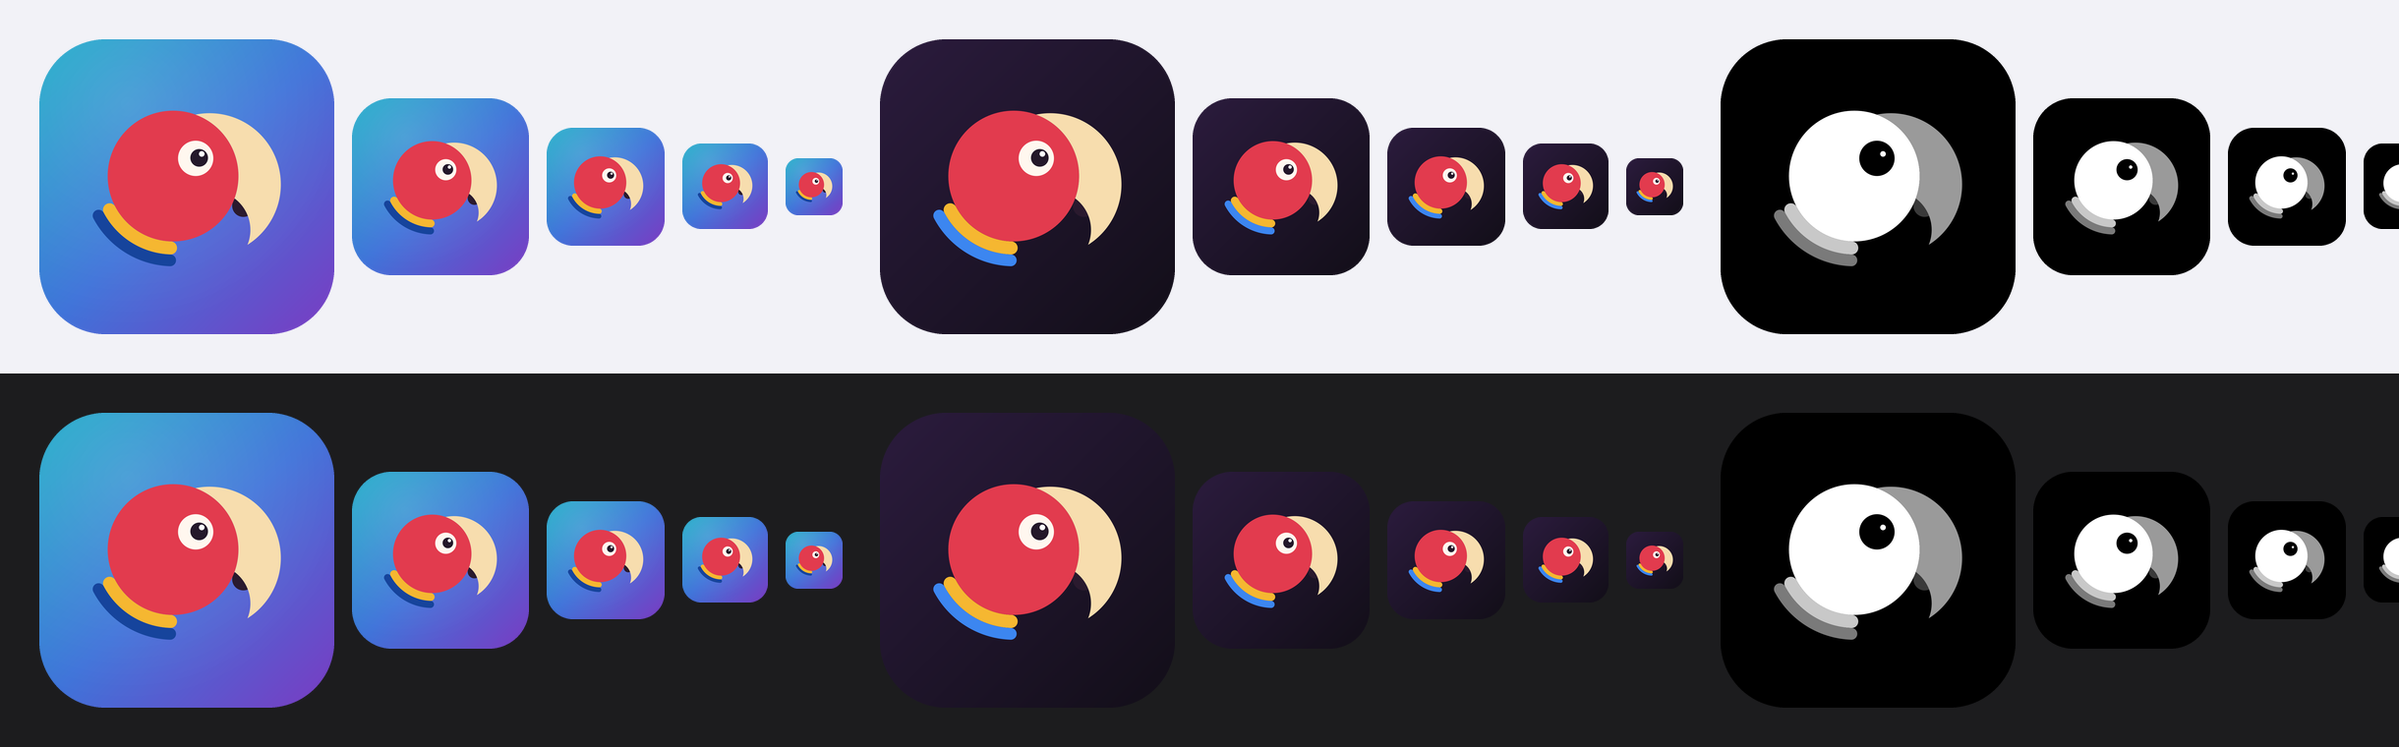
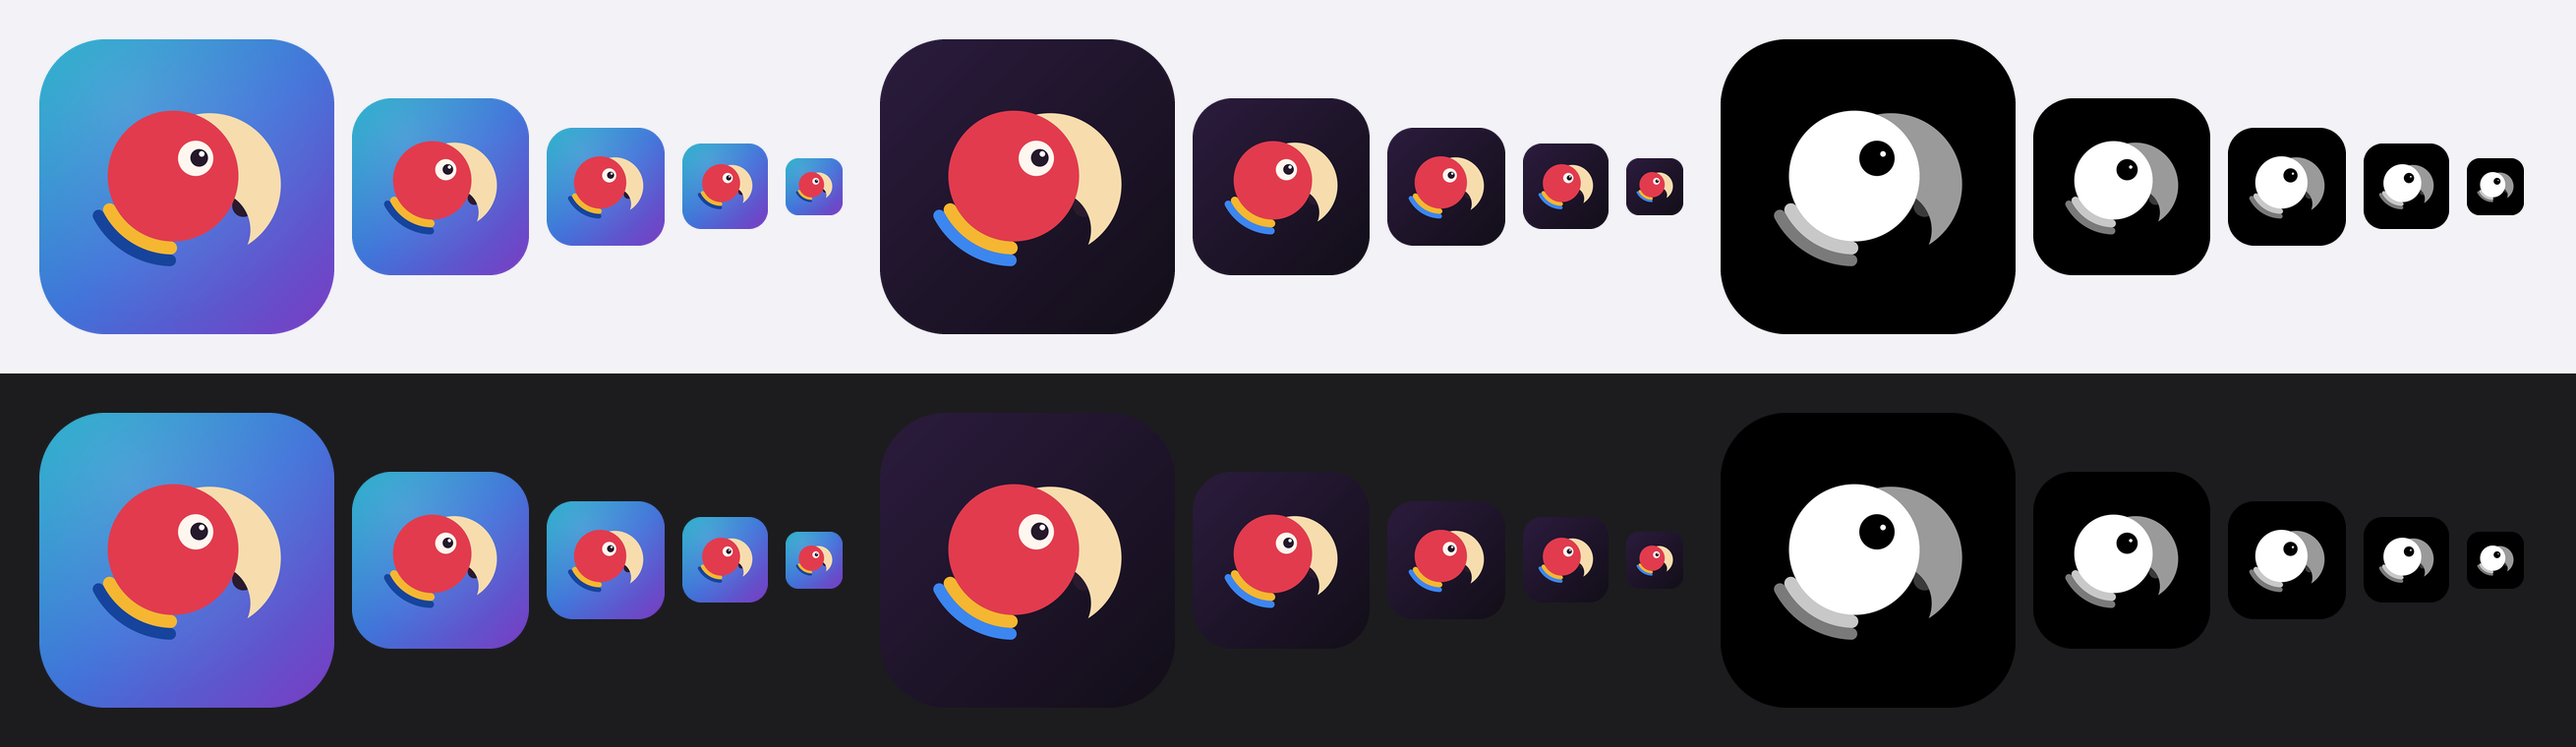
Docs: brand guide, exploration sheets; notes for KART #3
Claude-Session: https://claude.ai/code/session_01DAx8mBB8a87Zay3pwQevHJ

diff --git a/tools/brand/make_brand.py b/tools/brand/make_brand.py
@@ -207,6 +207,7 @@ def imageset(name, pdf_svg, note):
     for f in os.listdir(folder):
         os.remove(os.path.join(folder, f))
     fn = name[0].lower() + name[1:] + ".pdf"
+    # (The PDF library's output differs a little between runs even for the same drawing.)
     cairosvg.svg2pdf(bytestring=pdf_svg.encode(), write_to=os.path.join(folder, fn))
     write(os.path.join(folder, "Contents.json"), json.dumps({
         "images": [{"filename": fn, "idiom": "universal"}],
@@ -259,8 +260,8 @@ def icon_sizes_preview():
     """The three icons at App Store, home-screen and Settings sizes on light and dark."""
     kinds = ("light", "dark", "tinted")
     big = {k: png(icon(k), 1024) for k in kinds}
-    out = Image.new("RGB", (2440, 760), "#F2F2F7")
-    ImageDraw.Draw(out).rectangle((0, 380, 2440, 760), fill="#1C1C1E")
+    out = Image.new("RGB", (2620, 760), "#F2F2F7")
+    ImageDraw.Draw(out).rectangle((0, 380, 2620, 760), fill="#1C1C1E")
     for row, y in ((0, 40), (1, 420)):
         x = 40
         for k in kinds:

diff --git a/docs/brand.md b/docs/brand.md
@@ -1,0 +1,127 @@
+# Ara: brand identity
+
+The identity designed in KART #3 (17/11/26). The artwork is drawn in code by
+`tools/brand/make_brand.py` from the geometry in `tools/brand/ara.py`. That one script writes
+the vector masters in `brand/svg`, the previews in `brand/png` and the app's assets. Change
+the numbers there, run the script, and every file changes together. Never edit an exported
+file by hand. The exploration that led here is in `brand/exploration`.
+
+## The idea
+
+**Learn Georgian. Live Georgian.** Ara is a companion for living in Georgia, not only a
+course. The symbol is **Ara's head speaking**: a round head whose hooked macaw beak is also the
+tail of a speech bubble. In one colour it reads as a speech bubble; in colour it is a parrot
+looking up, curious, with one bright eye. Under the chin a short gold-and-blue curl of neck
+feathers carries the scarlet macaw's wing colours. On the mascot those same colours become the
+wing.
+
+- The parrot stands for speaking, listening and repeating, which is how a language is learned.
+- The speech bubble stands for real conversations: a taxi, the bazaar, a neighbour.
+- The name: არა means "no" in Georgian. The app already turns this into a joke on the welcome
+  screen ("By the end, you'll be saying კი: yes!"). The logo doesn't spell out არა: the Latin
+  wordmark "Ara" and the parrot carry the name, so no one sees a logo that says "No".
+
+## Concepts considered (brand/exploration/1-five-directions.jpg)
+
+| | Direction | Strengths | Weaknesses | Verdict |
+| --- | --- | --- | --- | --- |
+| A | Whole geometric macaw | Friendly, clear | A generic "cartoon parrot"; detail lost at 29 px | Became the mascot |
+| B | Lettermark ა (real Noto Sans Georgian glyph) | Bold, beautiful, true to the script, the first letter learned | To foreigners it reads as "J" or "3"; a font glyph is hard to own | Kept as a story, not the mark |
+| C | Two speech bubbles | Clearly "communication" | The generic language-app symbol the brief rules out | Rejected |
+| D | Macaw feather as a quill (writing) | Elegant, colourful | Reads as a leaf or a rainbow; thin at small sizes | Rejected |
+| E | **Speaking parrot: head = speech bubble** | One silhouette, two meanings; distinctive; strong at 29 px; friendly but not childish; ties straight to the mascot | The beak needed careful geometry | **Chosen** |
+| F | ა drawn as a bird | Clever | Bends a real letter (the content rules forbid that) | Rejected |
+
+## Refinement (brand/exploration/2–5)
+
+1. **Beak, first try**: free curves gave a cleaver, not a hook. Rebuilt from circle geometry.
+2. **Crescent beak**: precise, but read as a moon behind a ball.
+3. **Sickle beak**: an outer arc, a tighter inner arc and a point hanging down like a speech
+   bubble's tail; it starts and ends on the head's edge, so there is no seam.
+4. **Balance and colour**: the mark is centred by its ink box and fills 64 % of the icon. The
+   head is tilted 8° up (curious). Backgrounds tried: turquoise, purple, ink, paper, gold.
+   Paper loses the beak and gold flattens the red; Black Sea → Saperavi (the old icon's
+   gradient, made brighter with a blue midpoint) gives the most contrast with the red.
+5. **Neck curl**: two short bands, gold and deep blue, under the chin. Red, gold and blue
+   make it unmistakably a scarlet macaw, and the curl links the symbol to the mascot.
+6. **One colour**: the beak stays joined to the head, so the outline is a speech bubble;
+   the eye is a hole with the pupil inside.
+
+## The system (brand/svg, brand/png)
+
+| File | Use |
+| --- | --- |
+| `ara-symbol` | The symbol in colour on any light or dark background |
+| `ara-symbol-black`, `-white` | One colour: stamps, embossing, partner pages, small print |
+| `ara-app-icon`, `-dark`, `-tinted` | iOS icon (light, dark and tinted home-screen styles) |
+| `ara-logo-horizontal` (+ `-dark`, `-black`, `-white`, `-tagline`) | Symbol + "Ara": website header, App Store page, social |
+| `ara-logo-stacked` (+ `-dark`) | Symbol above "Ara" and the tagline: posters, splash, presentations |
+| `ara-mascot-hello`, `-blink`, `-cheer`, `-think`, `-sleep` | The mascot's poses |
+| `ara-app-icon-sizes.png` | The three icons from 300 px down to 58 px on light and dark |
+
+Rules:
+- Clear space around the symbol: at least half the head's width on every side.
+- Smallest sizes: symbol 16 px; horizontal logo 80 px wide.
+- Don't recolour the head, stretch it, add outlines or shadows, or put the colour symbol on a
+  red or busy background (use the one-colour version there).
+- Inside the app the identity is quiet: the icon, the launch mark, the mascot at key moments
+  and the small symbol in Profile. The app's own design system is unchanged.
+
+## Colour
+
+Primary (the app's brand colours, `DesignSystem/Palette.swift`):
+
+| Name | Light | Dark | Role |
+| --- | --- | --- | --- |
+| Pomegranate | `#E23B4E` | `#FF5D6E` | Ara's red, main accent, buttons |
+| Black Sea | `#1592AD` | `#3FC6E0` | Turquoise: icon background, phrasebook |
+| Saperavi | `#7A3BC2` | `#B07CF0` | Wine purple: icon background, Learn |
+| Gold | `#F5B731` (fill `#F5A623`) | `#FFC25C` | Neck curl, wing band, rewards |
+| Tkemali | `#2FA45A` | `#5AD585` | Success, right answers |
+
+Supporting:
+
+| Name | HEX | Role |
+| --- | --- | --- |
+| Macaw blue | `#1E5FC8` (dark icon `#3C86F0`, on gradient `#16449C`) | Flight feathers, neck curl |
+| Horn | `#F7DDAE` | The beak |
+| Ink | `#24182A` | Text on light, the pupil |
+| Paper | `#FFF7EF` | Light background, the eye |
+| Night | `#120E18` / raised `#2B1B3D` | Dark background, dark icon |
+
+Combinations that work: Ink or Pomegranate text on Paper; Paper text on Night; white text
+on Pomegranate, Saperavi, Black Sea and Tkemali fills; Ink text on Gold. Avoid Gold text on
+Paper (too faint) and red on purple.
+
+## Typography
+
+- **Wordmark**: "Ara" in Nunito Black (SIL Open Font License, `tools/brand/fonts`), set tight
+  and turned into outlines, so no font file is needed to show it. Nunito is the closest open
+  match to the app's SF Pro Rounded.
+- **In the app**: SF Pro Rounded (the system font, rounded design) for Latin text, as now; the
+  system Georgian font for Georgian (`DesignSystem/Typography.swift`).
+- **Marketing** (website, App Store screenshots): Nunito Black/ExtraBold for headings, Nunito
+  for text, Noto Sans Georgian for Georgian. Never fake Georgian with a Latin font or redraw
+  its letters.
+
+## The mascot
+
+Ara the macaw: the symbol's head on a scarlet-macaw body (red, a folded wing with a gold
+band and blue flight feathers, a long red-and-blue tail). Personality: friendly, curious,
+quick, encouraging; a local friend, not a cheerleader.
+
+- **Same head, always.** Moods change only the eye (open, smiling arc, closed), the head's
+  tilt and the wing. That keeps Ara recognisable and stops it from becoming a sticker set.
+- **Where it appears** (`ParrotView(mood:)`): hello (blinks now and then) on the welcome
+  screen and "Nothing saved yet"; cheer on "You're all set" and Lesson complete; think on
+  "Nothing found" and the start-up problem screen; sleep on Review's "All caught up".
+- **Quiet by design**: once per screen at most, never in the middle of an exercise, never
+  talking in speech bubbles of its own. Still with Reduce Motion.
+- **Growing the character later**: new poses come from the same parts in `ara.py` (a wing
+  pointing for tips, a perch for streaks, holding a phrase card for Show mode). A small
+  animated version (Rive or SwiftUI shapes) can reuse the same geometry.
+
+## Still to do
+- iOS 26 Liquid Glass icon: the PNG icons work, but Icon Composer (Mac only) can turn the
+  layers (background, head, beak, curl) into a `.icon` file with real glass depth.
+- Before the App Store: a trademark search for "Ara" and the symbol (see TODO.md).

diff --git a/CLAUDE.md b/CLAUDE.md
@@ -10,7 +10,7 @@ Name the chat before answering: `KART #<n> · dd/mm/yy · <2–3 words>`, e.g.
 `KART #2 · 17/11/26 · Words, audio`. KART is short for Kartuli, Georgian's name for itself.
 The date is the owner's day (Asia/Tbilisi). <n> is one more than the highest "KART #" among the
 owner's chats (`list_sessions`); if that can't be read, one more than the last number here:
-KART #2 (16/11/26). The words come from the first request. Rename with `set_session_title`
+KART #3 (17/11/26). The words come from the first request. Rename with `set_session_title`
 (load both tools with ToolSearch if needed); at the end, rename again if the work went
 elsewhere. Without those tools, suggest the name instead. The owner's other app, Logbook, uses
 "HOVR #<n>": don't count those.
@@ -42,8 +42,10 @@ elsewhere. Without those tools, suggest the name instead. The owner's other app,
   button and no listening exercise for that text.
 - "What do you think?" means give an opinion and options. Don't build until asked.
 - Name: **Ara** (owner, KART #1): a macaw, and არა, "no" in Georgian. On the home screen
-  "Ara"; in the App Store "Ara: Learn Georgian" (check the name and trademark first). The
-  mascot is a parrot whose body curls into ა (`tools/art/parrot.py`, `ParrotView`). Inside the
+  "Ara"; in the App Store "Ara: Learn Georgian" (check the name and trademark first).
+  Identity (KART #3, `docs/brand.md`): the symbol is Ara's head, whose hooked beak is a
+  speech bubble's tail; the mascot is the same head on a macaw body (`ParrotView(mood:)`).
+  All artwork comes from `tools/brand/make_brand.py`: change it there, never by hand. Inside the
   code and repo it is still "Georgian" (target, bundle ID `com.krfix.georgian`): don't rename.
 - Developer switch: Profile › Developer › Open all lessons (UserDefaults
   `devUnlockAllLessons`). Hide it before an App Store release.
@@ -96,6 +98,7 @@ elsewhere. Without those tools, suggest the name instead. The owner's other app,
 | Spaced repetition (SM-2), XP, streaks, levels, achievements, challenge, path states | `Engine/SpacedRepetition.swift`, `Engine/Gamification.swift` |
 | Saved data (SwiftData, CloudKit-ready) and everything worked out from it | `Data/Models.swift`, `Data/LearningStore.swift` |
 | Audio (bundled clips via `audio.json`, or the iPhone's Georgian voice), reminders | `Audio/`; clips made by `tools/audio/make_audio.py` |
+| Brand: symbol, app icons, logos, mascot poses (vector masters in `brand/`, assets in the catalog) | `tools/brand/ara.py` (geometry), `make_brand.py`; `docs/brand.md` |
 | Design system: colours (light and dark), type, motion, haptics, components | `DesignSystem/` (Borjgali emblem, ChunkyButton, cards, rings, confetti, FlowLayout, SpeakerButton) |
 | App start, launch options | `App/GeorgianApp.swift` (`AppModel`), `App/LaunchOptions.swift` |
 | Tabs, navigation, presenting lessons and phrases | `Features/Root/RootView.swift` (`Navigator`, `PhrasebookRoute`, `LearnRoute`) |
@@ -124,8 +127,8 @@ elsewhere. Without those tools, suggest the name instead. The owner's other app,
   springy motion that turns into fades with Reduce Motion (`Motion`, `withMotion`).
 
 ## Open
-- 0.2.0 in progress: the full app on `claude/full-app` (KART #1), and the phrasebook on
-  `claude/use-in-georgia` (KART #2, built on top of it). See DEVELOPMENT_LOG.md for their
+- 0.2.0 in progress: the full app (KART #1) and the phrasebook (KART #2) are on `main`; the
+  brand identity (KART #3) is on `claude/busy-franklin-eua7bv`. See DEVELOPMENT_LOG.md for their
   state and TODO.md for what's left.
 
 ## Repos and branches

diff --git a/DEVELOPMENT_LOG.md b/DEVELOPMENT_LOG.md
@@ -3,6 +3,40 @@
 Concise record of each work session: what was built, how it was tested, what was found and
 fixed. Newest first.
 
+## KART #3 · 17/11/26 · Brand identity, icon (branch `claude/busy-franklin-eua7bv`)
+
+The owner's brief: a sophisticated, minimal app icon plus an expressive macaw mascot, one
+identity; at least five concepts, critical selection, three or more refinements, vector
+production assets, integration without redesigning the app, Simulator check.
+
+### Audit
+SwiftUI app with a warm-paper/aubergine look, five brand colours (Palette), SF Rounded, the
+borjgali emblem, gradient cards. The old icon and mascot were one raster parrot (Pillow
+circles) on a turquoise-purple gradient; the beak read badly and it didn't hold up small.
+The welcome screen already explains the name ("you'll be saying კი: yes!").
+
+### Decisions
+- Six directions drawn and compared at 260, 120, 60 and 29 px on light and dark
+  (`brand/exploration`): parrot, ა lettermark (real Noto Sans Georgian glyph), two
+  bubbles, feather quill, speaking parrot, ა-bird. Chosen: the **speaking parrot** (head =
+  speech bubble, beak = its tail). Why, and the trade-offs: docs/brand.md.
+- Five refinement rounds: beak geometry (three tries), centring and tilt, backgrounds, the
+  gold-and-blue neck curl, the one-colour outline.
+- Mascot rebuilt in the same geometry; moods change only the eye, tilt and wing.
+- Artwork in code (`tools/brand/ara.py`, `make_brand.py`): SVG masters, PDF vectors in the
+  app, PNG icons. No AI images. Wordmark in Nunito Black outlines (OFL). The ა connection
+  stays in the story, not in a bent letter.
+
+### Built
+- AppIcon light, dark and tinted; LaunchMark (the symbol); AraSymbol; Parrot, ParrotBlink,
+  ParrotCheer, ParrotThink, ParrotSleep (vector PDFs). The old `tools/art` is gone.
+- `ParrotView(mood:)` with blinking; the mascot on the ready page and Lesson complete (cheer),
+  "Nothing saved yet" (hello), "Nothing found" and the start-up problem screen (think),
+  Review's "All caught up" (sleep); the symbol above the version line in Profile.
+- QA also photographs the home screen (light, dark) and a search with no results.
+
+### Runs and refinement cycles
+
 ## KART #2 · 16/11/26 · Use in Georgia (branch `claude/use-in-georgia`, from `claude/full-app`)
 
 The owner's brief: keep the design, but turn the app from a Duolingo-style game into a

diff --git a/TODO.md b/TODO.md
@@ -16,9 +16,15 @@ Genuinely unfinished work, most important first. Done items move to DEVELOPMENT_
       or slow to find.
 - [ ] Name: "Ara" chosen (KART #1). Before the App Store: check "Ara: Learn Georgian" is free
       there and in a trademark search. Hide Profile › Developer.
+- [ ] Look at the new identity (docs/brand.md, brand/png) and the icon on the iPhone; say
+      what to change. A trademark search should cover the symbol too.
 - [ ] App Store: an Apple Developer account, signed builds, privacy policy and support URLs.
 
 ## Next
+- [ ] Icon Composer (on a Mac): a layered `.icon` for iOS 26's Liquid Glass from the
+      symbol's parts; the PNG icons work meanwhile.
+- [ ] More mascot poses from the same parts (pointing for tips, holding a phrase card for
+      Show mode) and perhaps a small animated version.
 - [ ] More phrasebook: banking and documents in more depth, the doctor's (body parts),
       renting (viewing a flat), and more dialogues (gym trainer, post office, hairdresser).
 - [ ] Phrases with a gap for your own word (a street, a number, a name), shown to someone

diff --git a/CHANGELOG.md b/CHANGELOG.md
@@ -15,7 +15,10 @@ What changed in each version, newest first. Before the App Store, versions are 0
 - Conversations to read, hear and practise from either side
 - New tabs: Home, Learn (with Words and Progress), Phrasebook, Search, Review; a calmer Home
   that shows both learning and using Georgian; "I just need phrases now" on the welcome screen
-- The name Ara and its parrot, curled into the letter ა: icon, welcome, lesson complete
+- The name Ara and its identity: a speaking-parrot symbol (a head whose hooked beak is a
+  speech bubble's tail), app icons for light, dark and tinted home screens, a new launch
+  mark, and Ara the macaw mascot with moods (hello and blinking, cheer, think, sleep) on the
+  welcome screen, lesson complete, Review and empty states
 - Georgian audio everywhere in Azure's Eka voice (synthetic, labelled), slower playback, listening exercises
 - Developer switch: open all lessons
 - A course from zero: 5 modules, 53 lessons, 209 words and phrases, all 33 letters
